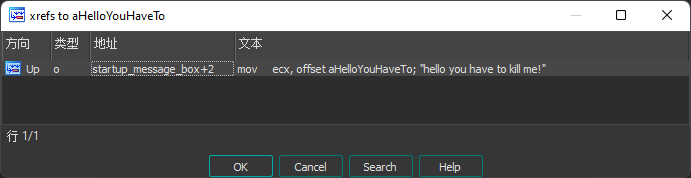
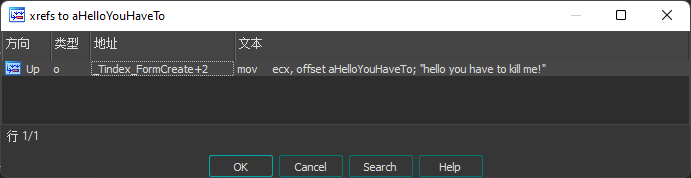
.

Changed region(s): [[0.1216, 0.3652, 0.3343, 0.4213]]

diff --git a/渗透测试/CrackMe/Acid_burn.md b/渗透测试/CrackMe/Acid_burn.md
@@ -34,13 +34,13 @@
 
 双击查询记录定位到引用的位置.  
 
-![](./assets/1_func_startup_msgbox.png)  
+![](./assets/1_func_index_FromCreate.png)  
 
-该函数的实现非常简单, 在将两个弹窗中出现的字符串作为参数调用了 message_box_wrapper.  
+该函数的实现非常简单, 在将两个弹窗中出现的字符串作为参数调用了 @TApplication@MessageBox.  
 由于该应用程序使用的是 Win32 API, 因此离 BessageBox 等系统函数的调用不远了.  
-在查看 message_box_wrapper 后可以发现, 这两个字符串参数被原封不动的传入了 MessageBoxA.
+在查看 @TApplication@MessageBox 后可以发现, 这两个字符串参数被原封不动的传入了 MessageBoxA.  
 
-至此, 如何阻止启动时弹窗的办法已经十分明显了. 只要让 MessageBoxA 不被调用即可.  
+至此, 如何阻止启动时弹窗的办法已经十分明显了. 只要让 MessageBoxA 不被调用即可, 但为同时确保程序的其他部分能正常运行, 不能应该对 @TApplication@MessageBox 内部进行修改.  
 将不想执行的代码使用空指令 nop 填充, 但需要确保堆栈平衡和寄存器数值的正确, 可参考[调用约定](../调用约定.md).  
 
 通过 编辑->补丁->汇编 来对原汇编代码进行修改, 然后再通过 编辑->补丁->应用 来保存修改, 写入前记得先对源程序进行备份.  
